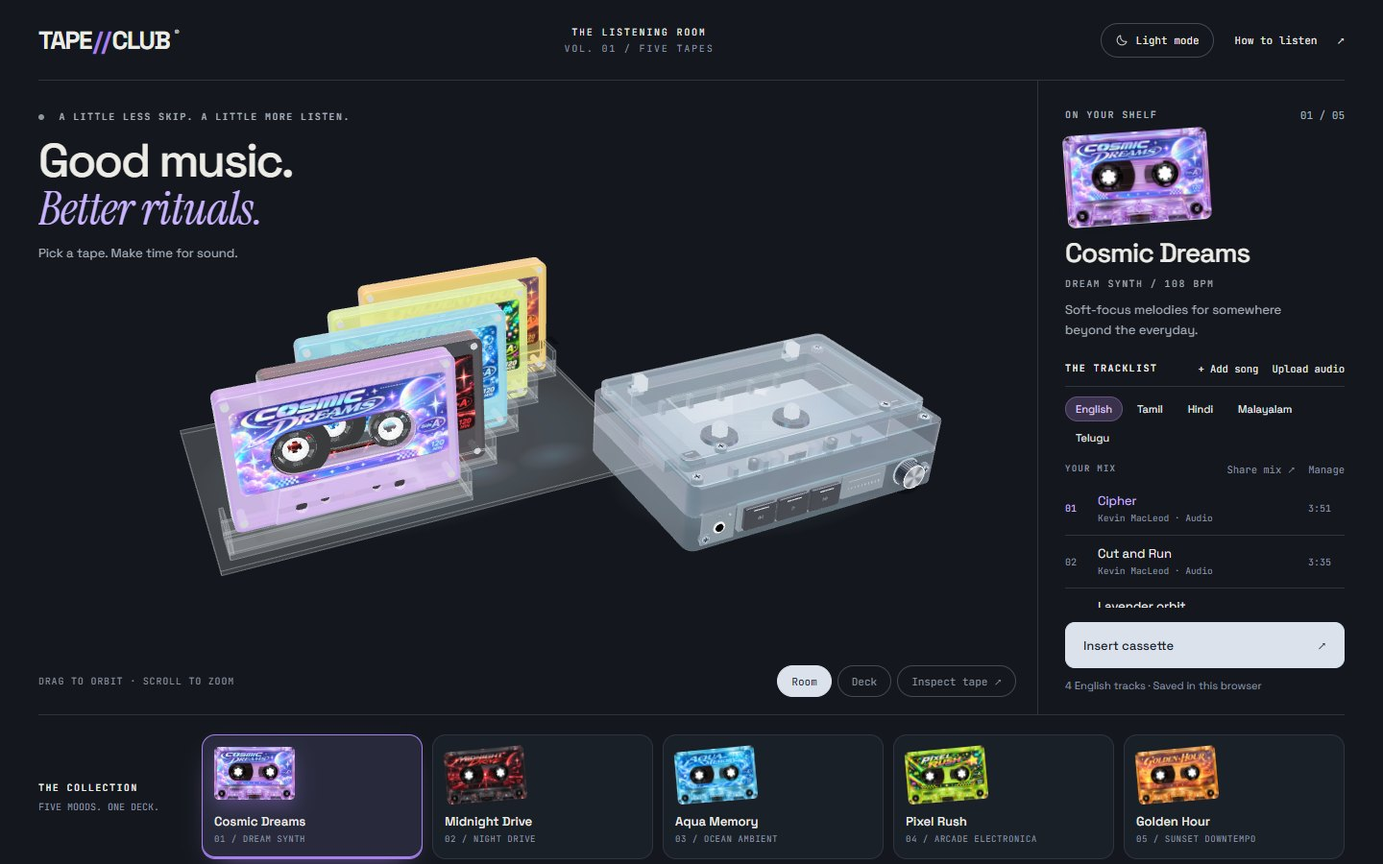
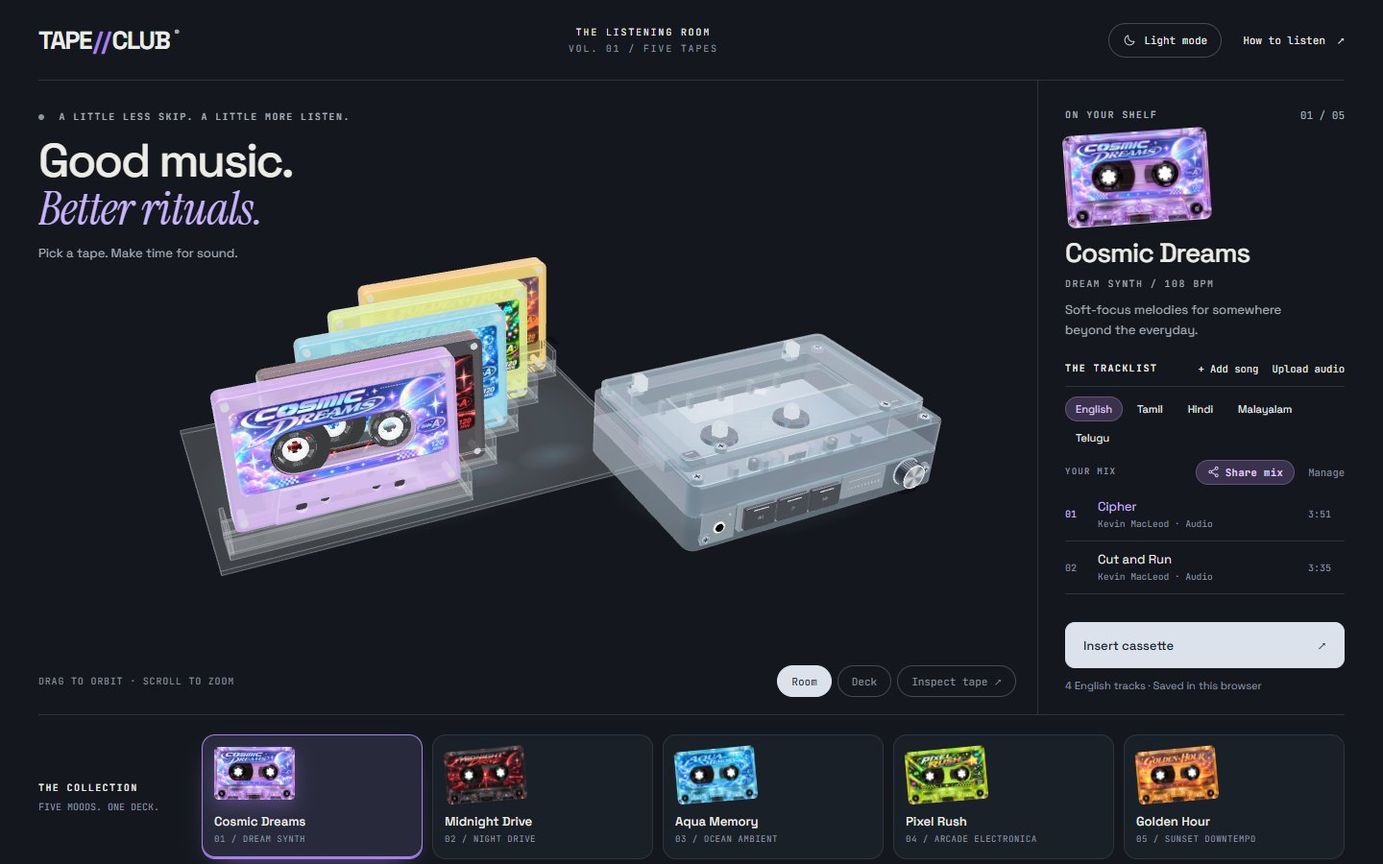
Polish mobile and loading: splash, mini player, sharper 3D, easier sharing
- Full-page branded loading splash with real progress; nothing
  half-loaded shows; artwork preload no longer stalls in background tabs
- Mobile: floating mini player (seek, prev, play/pause, next, eject),
  portrait-framed camera, sharper and more saturated 3D, icon-only mode
  switch and short Guide button, larger tap targets, pinch hint,
  auto-scroll to tape details and to the deck on insert, haptic taps
- Press feedback on all buttons, animated toasts and invite card
- Share mix shown as a pill on the tracklist and in the player bar
- Service worker cache v2; README updated; covers regenerated
- Tests: wait for audio level instead of sampling one instant

diff --git a/dist/index.html b/dist/index.html
@@ -26,26 +26,35 @@
   <script src="./vendor/gsap.min.js"></script>
 </head>
 <body>
-  <header class="masthead"><a class="wordmark" href="./" aria-label="TAPE CLUB home">TAPE<span>//</span>CLUB<sup>®</sup></a><div class="edition">THE LISTENING ROOM <span>VOL. 01 / FIVE TAPES</span></div><div class="header-actions"><button id="mode-toggle" class="mode-toggle" aria-label="Dark mode" aria-pressed="false"><svg viewBox="0 0 24 24" aria-hidden="true"><path d="M20.5 14A8.5 8.5 0 0 1 10 3.5 8.5 8.5 0 1 0 20.5 14Z"/></svg><span>Dark mode</span></button><button id="help-button" class="text-button">How to listen <span>↗</span></button></div></header>
+  <div class="loading" id="loading" role="status" aria-live="polite">
+    <div class="splash">
+      <div class="splash-tape" aria-hidden="true"><div class="splash-window"><i></i><i></i></div><span></span></div>
+      <div class="splash-mark">TAPE<span>//</span>CLUB</div>
+      <div class="loading-copy"><span class="loading-label" id="loading-label">Setting up the listening room</span><span class="loading-pct mono" id="loading-pct">0%</span></div>
+      <div class="loading-bar" role="progressbar" aria-label="Loading" aria-valuemin="0" aria-valuemax="100" aria-valuenow="0" id="loading-bar"><i></i></div>
+      <span class="splash-credit">BUILT BY SANJAI BUILDS</span>
+    </div>
+  </div><script>(()=>{let shown=0,target=8;const bar=document.getElementById('loading-bar'),pct=document.getElementById('loading-pct'),label=document.getElementById('loading-label');
+// While the 3D engine downloads, creep toward 35%; app.js reports real stages after that.
+const creep=setInterval(()=>{if(target<35)target+=(35-target)*.08;},200);
+const draw=()=>{if(!bar.isConnected)return;shown+=(target-shown)*.18;bar.style.setProperty('--p',shown.toFixed(1));pct.textContent=Math.round(shown)+'%';bar.setAttribute('aria-valuenow',Math.round(shown));requestAnimationFrame(draw);};requestAnimationFrame(draw);
+window.tapeLoad=(p,text)=>{clearInterval(creep);target=Math.max(target,p);if(text)label.textContent=text;};})();</script>
+  <header class="masthead"><a class="wordmark" href="./" aria-label="TAPE CLUB home">TAPE<span>//</span>CLUB<sup>®</sup></a><div class="edition">THE LISTENING ROOM <span>VOL. 01 / FIVE TAPES</span></div><div class="header-actions"><button id="mode-toggle" class="mode-toggle" aria-label="Dark mode" aria-pressed="false"><svg viewBox="0 0 24 24" aria-hidden="true"><path d="M20.5 14A8.5 8.5 0 0 1 10 3.5 8.5 8.5 0 1 0 20.5 14Z"/></svg><span>Dark mode</span></button><button id="help-button" class="text-button help-button"><span class="label-long">How to listen</span><span class="label-short">Guide</span><b aria-hidden="true">↗</b></button></div></header>
   <main>
     <section class="studio" aria-label="Cassette collection and player">
       <div class="stage" id="stage">
         <div class="stage-heading"><div class="eyebrow"><span class="live-dot"></span> A LITTLE LESS SKIP. A LITTLE MORE LISTEN.</div><h1>Good music.<br><em>Better rituals.</em></h1><p>Pick a tape. Make time for sound.</p></div>
         <div id="canvas-container" aria-label="3D cassette rack and graphite player. Select a tape using the collection buttons below."></div>
-        <div class="loading" id="loading" role="status"><div class="loading-copy"><span class="loading-label" id="loading-label">Setting up the listening room</span><span class="loading-pct mono" id="loading-pct">0%</span></div><div class="loading-bar" role="progressbar" aria-label="Loading" aria-valuemin="0" aria-valuemax="100" aria-valuenow="0" id="loading-bar"><i></i></div></div><script>(()=>{let shown=0,target=8;const bar=document.getElementById('loading-bar'),pct=document.getElementById('loading-pct'),label=document.getElementById('loading-label');
-// While the 3D engine downloads, creep toward 35%; app.js reports real stages after that.
-const creep=setInterval(()=>{if(target<35)target+=(35-target)*.08;},200);
-const draw=()=>{if(!bar.isConnected)return;shown+=(target-shown)*.18;bar.style.setProperty('--p',shown.toFixed(1));pct.textContent=Math.round(shown)+'%';bar.setAttribute('aria-valuenow',Math.round(shown));requestAnimationFrame(draw);};requestAnimationFrame(draw);
-window.tapeLoad=(p,text)=>{clearInterval(creep);target=Math.max(target,p);if(text)label.textContent=text;};})();</script>
+        
         <div class="stage-bottom"><span id="gesture-hint">DRAG TO ORBIT · SCROLL TO ZOOM</span><div class="view-controls"><button id="view-room" aria-label="Reset room view" class="active">Room</button><button id="view-deck">Deck</button><button id="inspect-button">Inspect tape ↗</button></div></div>
         <div id="error-banner" role="alert" hidden></div>
       </div>
       <aside class="tape-panel">
         <div class="panel-top"><span class="eyebrow">ON YOUR SHELF</span><span id="tape-number" class="mono">01 / 05</span></div>
-        <div class="selected-art" id="selected-art"><img id="selected-label" alt="Cosmic Dreams cassette label"><div class="mini-reels"><i></i><i></i></div><span>SIDE A</span></div>
+        <div class="selected-art" id="selected-art"><img id="selected-label" src="./assets/cosmic.png" alt="Cosmic Dreams cassette artwork" decoding="async"><div class="mini-reels"><i></i><i></i></div><span>SIDE A</span></div>
         <div class="tape-heading"><h2 id="selected-title">Cosmic Dreams</h2><span id="selected-genre" class="genre">DREAM SYNTH / 108 BPM</span></div>
         <p id="selected-description" class="description">Soft-focus melodies for somewhere beyond the everyday.</p>
-        <div class="playlist-heading"><span class="eyebrow">THE TRACKLIST</span><div class="playlist-actions"><button id="add-song" class="text-button">+ Add song</button><button id="upload-button" class="text-button" title="Upload local audio to this language group">Upload audio</button></div></div><div class="language-tabs" id="language-tabs" role="tablist" aria-label="Track language"></div><div class="playlist-toolbar"><span class="eyebrow">YOUR MIX</span><div class="playlist-actions"><button id="share-mix" class="text-button" title="Copy a link to this tape's tracklist">Share mix ↗</button><button id="manage-tracks" class="text-button" aria-pressed="false">Manage</button></div></div>
+        <div class="playlist-heading"><span class="eyebrow">THE TRACKLIST</span><div class="playlist-actions"><button id="add-song" class="text-button">+ Add song</button><button id="upload-button" class="text-button" title="Upload local audio to this language group">Upload audio</button></div></div><div class="language-tabs" id="language-tabs" role="tablist" aria-label="Track language"></div><div class="playlist-toolbar"><span class="eyebrow">YOUR MIX</span><div class="playlist-actions"><button id="share-mix" class="pill-button" title="Copy a link to this tape's tracklist"><svg viewBox="0 0 24 24" aria-hidden="true"><circle cx="18" cy="5" r="2.5"/><circle cx="6" cy="12" r="2.5"/><circle cx="18" cy="19" r="2.5"/><path d="M8.2 10.8l7.6-4.4M8.2 13.2l7.6 4.4"/></svg>Share mix</button><button id="manage-tracks" class="text-button" aria-pressed="false">Manage</button></div></div>
         <input id="audio-upload" type="file" accept="audio/*,.mp3,.wav,.m4a,.aac,.ogg,.flac,.opus" multiple hidden>
         <ol id="playlist" role="tabpanel" aria-label="Selected cassette playlist"></ol>
         <button class="primary" id="insert-button" disabled><span>Insert cassette</span><span>↗</span></button>
@@ -60,7 +69,7 @@ window.tapeLoad=(p,text)=>{clearInterval(creep);target=Math.max(target,p);if(tex
     <section class="transport" aria-label="Music playback controls">
       <div class="now-playing"><div class="status-line"><span class="live-dot" id="playing-dot"></span><span id="status" role="status" aria-live="polite">Choose your soundtrack</span></div><strong id="track-title">The room is yours.</strong><span id="track-artist">Insert a cassette to begin</span></div>
       <div class="playback"><div class="transport-buttons"><button id="previous" title="Previous track" aria-label="Previous track"><svg viewBox="0 0 24 24" aria-hidden="true"><path d="M6 5h2v14H6zM20 5v14L9 12z"/></svg></button><button id="rewind" title="Rewind tape" aria-label="Rewind tape"><svg viewBox="0 0 24 24" aria-hidden="true"><path d="M11.5 6v12L3 12zM21 6v12l-8.5-6z"/></svg></button><button id="play" class="play" title="Play or pause" aria-label="Play" disabled><svg class="icon-play" viewBox="0 0 24 24" aria-hidden="true"><path d="M8 5.5v13l11-6.5z"/></svg><svg class="icon-pause" viewBox="0 0 24 24" aria-hidden="true"><path d="M7 5h3.5v14H7zM13.5 5H17v14h-3.5z"/></svg></button><button id="forward" title="Fast forward tape" aria-label="Fast forward tape"><svg viewBox="0 0 24 24" aria-hidden="true"><path d="M12.5 6v12L21 12zM3 6v12l8.5-6z"/></svg></button><button id="next" title="Next track" aria-label="Next track"><svg viewBox="0 0 24 24" aria-hidden="true"><path d="M16 5h2v14h-2zM4 5v14l11-7z"/></svg></button></div><div class="seek-row"><span id="elapsed" class="mono">0:00</span><input id="seek" type="range" min="0" max="1000" value="0" aria-label="Track position" disabled><span id="duration" class="mono">0:00</span></div></div>
-      <div class="output"><canvas id="visualizer" width="220" height="34" aria-label="Audio frequency visualizer"></canvas><div class="output-controls"><label for="volume">VOL</label><input id="volume" type="range" min="0" max="100" value="70" aria-label="Volume"><span id="volume-value" class="mono">70</span><button id="eject" disabled>Eject ↑</button><button id="lid" title="Open or close player lid">Lid ↑</button></div></div>
+      <div class="output"><canvas id="visualizer" width="220" height="34" aria-label="Audio frequency visualizer"></canvas><div class="output-controls"><label for="volume">VOL</label><input id="volume" type="range" min="0" max="100" value="70" aria-label="Volume"><span id="volume-value" class="mono">70</span><button id="share-player" class="icon-button mini-hide" title="Share this tape's mix" aria-label="Share this tape's mix"><svg viewBox="0 0 24 24" aria-hidden="true"><circle cx="18" cy="5" r="2.5"/><circle cx="6" cy="12" r="2.5"/><circle cx="18" cy="19" r="2.5"/><path d="M8.2 10.8l7.6-4.4M8.2 13.2l7.6 4.4"/></svg>Share</button><button id="eject" aria-label="Eject cassette" disabled><span class="mini-hide">Eject ↑</span><svg class="mini-only" viewBox="0 0 24 24" aria-hidden="true" width="18" height="18" fill="currentColor"><path d="M12 5l7 8H5zM5 16h14v3H5z"/></svg></button><button id="lid" title="Open or close player lid">Lid ↑</button></div></div>
     </section>
     <section class="music-library" aria-labelledby="library-title">
       <div class="library-heading"><div><span class="eyebrow">THE RECORD STORE</span><h2 id="library-title">Find your next <em>rotation.</em></h2></div><p>Full-length picks across five genres.<br>Add a sampler to your selected tape and language.</p></div>

diff --git a/dist/js/app.js b/dist/js/app.js
@@ -23,9 +23,12 @@ const playlistStore=new PlaylistStore();await playlistStore.restoreFiles();
 const audio=new AudioEngine(playlistStore);const finishPointer=new THREE.Vector2();
 const finishState={pointer:finishPointer,selected:false,hovered:false,inserted:false,playing:false,inspecting:false,reducedMotion:false,activity:0};
 const container=$('canvas-container'),stage=$('stage');
+const coarsePointer=matchMedia('(pointer: coarse)').matches,reducedMotionPref=()=>matchMedia('(prefers-reduced-motion: reduce)').matches;
+const buzz=(ms=8)=>{if(coarsePointer)try{navigator.vibrate?.(ms)}catch{}};
+if(coarsePointer)$('gesture-hint').textContent='DRAG TO ORBIT · PINCH TO ZOOM';
 let renderer;
 try{renderer=new THREE.WebGLRenderer({antialias:true,alpha:true,powerPreference:'high-performance'});}catch(e){$('loading').hidden=true;$('error-banner').hidden=false;$('error-banner').textContent='This browser cannot start the 3D room. Enable WebGL or open the site in a current Chrome, Edge, Safari, or Firefox browser.';throw e;}
-renderer.setPixelRatio(Math.min(devicePixelRatio,innerWidth<760?1.3:1.6));renderer.toneMapping=THREE.ACESFilmicToneMapping;renderer.toneMappingExposure=.95;
+const smallScreen=innerWidth<760;renderer.setPixelRatio(Math.min(devicePixelRatio,smallScreen?2:1.6));renderer.toneMapping=THREE.ACESFilmicToneMapping;renderer.toneMappingExposure=smallScreen?1.05:.95;
 renderer.outputColorSpace=THREE.SRGBColorSpace;renderer.shadowMap.enabled=true;renderer.shadowMap.type=THREE.PCFSoftShadowMap;renderer.setClearColor('#f2f3f0',1);container.appendChild(renderer.domElement);
 const scene=new THREE.Scene();const camera=new THREE.PerspectiveCamera(34,1,.3,200);
 const controls=new OrbitControls(camera,renderer.domElement);controls.enableDamping=true;controls.dampingFactor=.08;controls.minDistance=16;controls.maxDistance=100;controls.maxPolarAngle=Math.PI*.47;controls.enablePan=false;
@@ -63,11 +66,14 @@ function cameraMove(pos,target,duration=.65){if(matchMedia('(prefers-reduced-mot
 function fitRoom(animate=true){
   // Offset the objects toward the lower half so the introductory type has air.
   const mobile=container.clientWidth<600;
-  const target=new THREE.Vector3(-3,3,-.5);const dist=mobile?87:50;
-  const pos=target.clone().add(new THREE.Vector3(-.36,.49,.8).normalize().multiplyScalar(dist));roomPose={pos,target};
+  // Portrait phones look from further left so the rack and deck overlap in depth and fill the width.
+  const aspect=container.clientWidth/Math.max(1,container.clientHeight);
+  const target=mobile?new THREE.Vector3(-2.4,5.5,-.5):new THREE.Vector3(-3,3,-.5);
+  const dist=mobile?THREE.MathUtils.clamp(52/aspect,55,95):50;
+  const pos=target.clone().add((mobile?new THREE.Vector3(-.48,.5,.72):new THREE.Vector3(-.36,.49,.8)).normalize().multiplyScalar(dist));roomPose={pos,target};
   if(animate)cameraMove(pos,target);else{camera.position.copy(pos);controls.target.copy(target);controls.update();}
 }
-function changeView(inspect){inspectionView=inspect;controls.enabled=!inspect;stage.classList.toggle('inspecting',inspect);$('gesture-hint').textContent=inspect?'DRAG TO TURN THE TAPE · ESC TO RETURN':'DRAG TO ORBIT · SCROLL TO ZOOM';if(inspect)cameraMove(new THREE.Vector3(-2,10,38),new THREE.Vector3(-2,8,15));else{deckView=false;fitRoom();}renderUI();}
+function changeView(inspect){inspectionView=inspect;controls.enabled=!inspect;stage.classList.toggle('inspecting',inspect);$('gesture-hint').textContent=inspect?'DRAG TO TURN THE TAPE · ESC TO RETURN':(coarsePointer?'DRAG TO ORBIT · PINCH TO ZOOM':'DRAG TO ORBIT · SCROLL TO ZOOM');if(inspect)cameraMove(new THREE.Vector3(-2,10,38),new THREE.Vector3(-2,8,15));else{deckView=false;fitRoom();}renderUI();}
 function showError(message){$('error-banner').textContent=message;$('error-banner').hidden=false;clearTimeout(showError.timer);showError.timer=setTimeout(()=>$('error-banner').hidden=true,10000);}
 const transport=new Transport({scene,player,tapes,slots,audio,onChange:()=>renderUI(),onError:showError,resetView:changeView});
 const playlistUI=createPlaylistUI({store:playlistStore,audio,transport,displayName,onError:showError});
@@ -87,7 +93,7 @@ function updateMediaSession(state){
 function updatePositionState(){const d=audio.media.duration,t=audio.media.currentTime;if(!session?.setPositionState||!transport.loaded||!(d>0)||!Number.isFinite(d))return;try{session.setPositionState({duration:d,position:Math.min(Math.max(0,t||0),d),playbackRate:1});}catch{}}
 let renderedPlaylist='',renderedSelection='';const reducedMotion=matchMedia('(prefers-reduced-motion: reduce)').matches;function animateSelection(){if(reducedMotion)return;gsap.fromTo(['#selected-art','#selected-title','#selected-genre','#selected-description'],{y:9,opacity:0},{y:0,opacity:1,duration:.5,stagger:.055,ease:'power3.out',overwrite:true});}
 const statusNames={empty:'Choose your soundtrack',inserting:'Inserting cassette',ready:'Ready when you are',starting:'Starting audio',playing:'Now playing',paused:'Paused',rewind:'Rewinding',forward:'Fast forwarding',ejecting:'Returning to the shelf',lid:'Moving the lid',track:'Loading track'};
-keys.forEach((id,i)=>{const b=document.createElement('button');b.type='button';b.className='cassette-card';b.dataset.tape=id;b.style.setProperty('--accent',CASSETTE_THEMES[id].shellColor);b.innerHTML=`<span class="tape-swatch" aria-hidden="true"><img src="./assets/${id}.png" alt="" draggable="false"></span><span><span class="card-name">${displayName(id)}</span><span class="card-meta">${String(i+1).padStart(2,'0')} / ${descriptions[id][0].toUpperCase()}</span></span>`;b.onclick=()=>transport.select(id);$('cassette-list').appendChild(b);});
+keys.forEach((id,i)=>{const b=document.createElement('button');b.type='button';b.className='cassette-card';b.dataset.tape=id;b.style.setProperty('--accent',CASSETTE_THEMES[id].shellColor);b.innerHTML=`<span class="tape-swatch" aria-hidden="true"><img src="./assets/${id}.png" alt="" draggable="false"></span><span><span class="card-name">${displayName(id)}</span><span class="card-meta">${String(i+1).padStart(2,'0')} / ${descriptions[id][0].toUpperCase()}</span></span>`;b.onclick=async()=>{buzz();const changed=transport.selected!==id;await transport.select(id);if(changed&&smallScreen){const top=document.querySelector('.tape-panel').getBoundingClientRect().top+scrollY-8;scrollTo({top,behavior:reducedMotionPref()?'auto':'smooth'});}};$('cassette-list').appendChild(b);});
 document.querySelectorAll('.cassette-card').forEach(card=>{
   card.addEventListener('pointerenter',()=>transport.hover(card.dataset.tape));
   card.addEventListener('pointermove',e=>{const r=card.getBoundingClientRect(),x=(e.clientX-r.left)/r.width*2-1,y=(e.clientY-r.top)/r.height*2-1;finishPointer.set(x,-y);card.style.setProperty('--tilt-x',`${-y*5}deg`);card.style.setProperty('--tilt-y',`${x*7}deg`);});
@@ -119,13 +125,14 @@ ALBUMS.forEach(album=>{
   });
   $('album-grid').appendChild(card);
 });
-$('insert-button').onclick=()=>transport.insert();$('eject').onclick=()=>transport.eject();$('play').onclick=()=>transport.state==='playing'?transport.pause():transport.play();$('rewind').onclick=()=>transport.wind('rewind');$('forward').onclick=()=>transport.wind('forward');$('previous').onclick=()=>transport.track(-1);$('next').onclick=()=>transport.track(1);$('lid').onclick=()=>transport.lid(!transport.lidOpen);$('inspect-button').onclick=()=>transport.inspect();
+$('insert-button').onclick=()=>{buzz(12);if(smallScreen)stage.scrollIntoView({behavior:reducedMotionPref()?'auto':'smooth',block:'start'});transport.insert();};$('eject').onclick=()=>{buzz(12);transport.eject();};$('play').onclick=()=>{buzz();transport.state==='playing'?transport.pause():transport.play();};$('rewind').onclick=()=>transport.wind('rewind');$('forward').onclick=()=>transport.wind('forward');$('previous').onclick=()=>transport.track(-1);$('next').onclick=()=>transport.track(1);$('lid').onclick=()=>transport.lid(!transport.lidOpen);$('inspect-button').onclick=()=>transport.inspect();
 $('seek').oninput=e=>transport.seek(Number(e.target.value)/1000);$('volume').oninput=e=>transport.volume(Number(e.target.value)/100);
 $('view-room').onclick=async()=>{if(transport.busy)return;if(transport.inspecting)await transport.inspect(false);deckView=false;fitRoom();$('view-room').classList.add('active');$('view-deck').classList.remove('active');};
 $('view-deck').onclick=async()=>{if(transport.busy)return;if(transport.inspecting)await transport.inspect(false);deckView=true;cameraMove(new THREE.Vector3(1,17,24),new THREE.Vector3(6,2,5));$('view-deck').classList.add('active');$('view-room').classList.remove('active');};
 function toast(message){const t=$('toast');t.textContent=message;t.hidden=false;clearTimeout(toast.timer);toast.timer=setTimeout(()=>t.hidden=true,4500);}
 const languageName=id=>languageTabsConfig.languages.find(l=>l.id===id)?.label||id;
-$('share-mix').onclick=async()=>{
+$('share-player').onclick=()=>$('share-mix').click();
+$('share-mix').onclick=async()=>{buzz();
   const tape=transport.selected,language=playlistStore.language(tape),{url,count,skipped}=createMixLink(playlistStore,tape,language);
   if(!count){toast('Nothing to share yet: uploaded files stay on your device. Add a YouTube song or a record-store sampler first.');return;}
   const note=skipped?` (${skipped} uploaded file${skipped>1?'s':''} left out)`:'';

diff --git a/dist/style.css b/dist/style.css
@@ -88,6 +88,7 @@ button:disabled{opacity:.35;cursor:not-allowed}
 .text-button{font-size:11px;padding:8px 0;transition:color .2s}
 .text-button:hover:enabled{color:var(--accent-text)}
 .text-button span{margin-left:14px}
+.help-button span{margin-left:0}.help-button b{font-weight:400;margin-left:12px}.label-short{display:none}
 .source-note{font-size:11px;color:var(--subtle);line-height:1.6;margin-top:10px}
 .live-dot{display:inline-block;width:6px;height:6px;border-radius:50%;background:var(--subtle);margin-right:8px;vertical-align:middle}
 
@@ -121,12 +122,23 @@ h1 em{font-family:var(--font-serif);font-weight:400;letter-spacing:-.01em;color:
 #canvas-container{position:absolute;inset:0;touch-action:none;cursor:grab}
 #canvas-container:active{cursor:grabbing}
 #canvas-container canvas{display:block;width:100%;height:100%}
-.loading{position:absolute;inset:0;display:flex;flex-direction:column;align-items:center;justify-content:center;gap:14px;background:var(--bg);z-index:3;font-size:13px;color:var(--muted);transition:opacity .45s}
-.loading.done{opacity:0;pointer-events:none}
-.loading-copy{display:flex;justify-content:space-between;gap:24px;width:min(280px,70%)}
+/* Full-page splash: covers everything until the room, art and fonts are ready. */
+.loading{position:fixed;inset:0;z-index:100;display:grid;place-items:center;background:radial-gradient(120% 80% at 50% 38%,color-mix(in srgb,var(--selection-accent) 16%,var(--bg)) 0%,var(--bg) 62%);color:var(--muted);transition:opacity .5s ease,visibility .5s}
+.loading.done{opacity:0;visibility:hidden;pointer-events:none}
+.splash{display:flex;flex-direction:column;align-items:center;gap:16px;width:min(300px,78vw);text-align:center}
+.splash-tape{position:relative;width:132px;height:86px;border-radius:12px;background:linear-gradient(135deg,#b48cf2,#8a63d8 55%,#6f4fc0);box-shadow:0 18px 40px -16px #6f4fc0,inset 0 0 0 2px #ffffff30;animation:splash-float 2.6s ease-in-out infinite}
+.splash-tape span{position:absolute;left:28%;right:28%;bottom:0;height:16px;border-radius:6px 6px 0 0;background:#00000026}
+.splash-window{position:absolute;left:14px;right:14px;top:14px;height:38px;border-radius:8px;background:#f3ecff;display:flex;align-items:center;justify-content:space-around}
+.splash-window i{width:24px;height:24px;border-radius:50%;border:6px solid #22262a;background:repeating-conic-gradient(#22262a 0 20deg,#f3ecff 20deg 60deg);animation:spin 1.2s linear infinite}
+.splash-mark{margin-top:6px;font-size:24px;font-weight:700;letter-spacing:-.05em;color:var(--text)}
+.splash-mark span{color:var(--selection-accent)}
+.loading-copy{display:flex;justify-content:space-between;gap:24px;width:100%;font-size:12px}
 .loading-pct{color:var(--text)}
-.loading-bar{--p:0;position:relative;width:min(280px,70%);height:3px;border-radius:3px;background:var(--track);overflow:hidden}
+.loading-bar{--p:0;position:relative;width:100%;height:4px;border-radius:4px;background:var(--track);overflow:hidden}
 .loading-bar i{position:absolute;inset:0;transform-origin:left;transform:scaleX(calc(var(--p) / 100));background:linear-gradient(90deg,#a780ec,#7fdcf0,#f4cc43)}
+.splash-credit{margin-top:8px;font:10px var(--font-mono);letter-spacing:.16em;color:var(--subtle)}
+@keyframes splash-float{0%,100%{transform:translateY(0) rotate(-3deg)}50%{transform:translateY(-6px) rotate(-1deg)}}
+@keyframes spin{to{transform:rotate(360deg)}}
 .stage-bottom{position:absolute;bottom:18px;left:0;right:22px;z-index:2;display:flex;justify-content:space-between;align-items:center;gap:10px;font-size:10px;letter-spacing:.08em;color:var(--subtle)}
 .view-controls{display:flex;gap:6px}
 .view-controls button{border:1px solid var(--line-strong);border-radius:999px;padding:8px 14px;font-size:11px;white-space:nowrap;background:color-mix(in srgb,var(--bg) 72%,transparent);backdrop-filter:blur(10px);transition:background .25s,color .25s,transform .25s var(--ease)}
@@ -426,3 +438,69 @@ kbd{font:11px var(--font-mono);padding:2px 6px;border:1px solid var(--line-stron
   *,*::before,*::after{scroll-behavior:auto!important;animation:none!important;transition:none!important}
   .primary:hover:enabled,.cassette-card:hover:enabled,.cassette-card:hover .tape-swatch,.transport-buttons button:hover:enabled,.view-controls button:hover:enabled,#playlist .track-play:hover:enabled,.album-card:hover .album-cover{transform:none}
 }
+
+/* 12. Touch feel, motion and mobile polish ------------------------------ */
+html{-webkit-text-size-adjust:100%}
+button{touch-action:manipulation;-webkit-user-select:none;user-select:none}
+:is(.primary,.view-controls button,.cassette-card,.transport-buttons button,.album-add,.language-tabs button,.mode-toggle,.pill-button,.text-button):active:enabled{transform:scale(.96);transition-duration:.08s}
+.selected-art img,.tape-swatch img{transition:opacity .35s}
+.pill-button{display:inline-flex;align-items:center;gap:6px;padding:5px 11px;border:1px solid var(--tab-active-line);border-radius:999px;background:var(--tab-active-bg);color:var(--tab-active-text);font:600 10.5px var(--font-mono);letter-spacing:.04em;transition:background .2s,transform .2s var(--ease)}
+.pill-button:hover:enabled{transform:translateY(-1px)}
+.pill-button svg,.icon-button svg{width:13px;height:13px;fill:none;stroke:currentColor;stroke-width:1.8;stroke-linecap:round;stroke-linejoin:round}
+.icon-button{display:inline-flex;align-items:center;gap:6px}
+.toast,.mix-invite{animation:rise .35s var(--ease)}
+@keyframes rise{from{opacity:0;transform:translate(var(--tx,0),12px)}to{opacity:1;transform:translate(var(--tx,0),0)}}
+.toast{--tx:-50%}
+.mini-only{display:none}
+
+@media(max-width:760px){
+  /* Header: icon-only mode switch and a short "Guide" label. */
+  .mode-toggle span{position:absolute;width:1px;height:1px;overflow:hidden;clip:rect(0 0 0 0)}
+  .mode-toggle{width:40px;height:40px;padding:0;justify-content:center}
+  .mode-toggle svg{width:17px;height:17px}
+  .label-long{display:none}.label-short{display:inline}
+  .help-button{padding:10px 14px;border:1px solid var(--line-strong);border-radius:999px;font-size:12px}
+  .help-button b{margin-left:6px}
+
+  /* Stage: bigger, crisper, more colourful 3D room. */
+  .stage{height:min(560px,72svh);background:radial-gradient(110% 70% at 50% 62%,color-mix(in srgb,var(--selection-accent) 14%,transparent),transparent 70%)}
+  #canvas-container canvas{filter:saturate(1.18) contrast(1.04)}
+  h1{font-size:40px}
+  .stage-heading p{font-size:14px}
+  .stage-bottom{bottom:14px}
+  .view-controls{gap:8px}
+  .view-controls button{padding:10px 15px;font-size:11px}
+
+  /* Tape panel: clearer hierarchy and larger tap targets. */
+  .tape-heading h2{font-size:28px}
+  .description{font-size:13.5px}
+  .playlist-actions .text-button,.playlist-toolbar .text-button{font-size:12px;padding:8px 0}
+  .language-tabs button{font-size:12px;padding:9px 14px}
+  #playlist .track-play{font-size:14px}
+  .primary{min-height:54px;font-size:15px;border-radius:14px}
+  .cassette-card{border-radius:16px}
+
+  /* Fixed mini player: always within thumb reach. */
+  body{padding-bottom:calc(132px + env(safe-area-inset-bottom))}
+  .transport{position:fixed;z-index:30;left:10px;right:10px;bottom:calc(10px + env(safe-area-inset-bottom));display:grid;grid-template-columns:minmax(0,1fr) auto auto;grid-template-areas:"seek seek seek" "now ctrl extra";align-items:center;gap:8px 10px;min-height:0;padding:10px 12px 12px;border-radius:20px;background:color-mix(in srgb,var(--surface) 82%,transparent);backdrop-filter:blur(18px) saturate(1.4);-webkit-backdrop-filter:blur(18px) saturate(1.4);border-color:color-mix(in srgb,var(--selection-accent) 35%,var(--line-strong));box-shadow:0 18px 40px -18px #000c,0 0 0 1px #ffffff08 inset}
+  .playback,.output{display:contents}
+  .now-playing{grid-area:now;gap:2px;min-width:0}
+  .status-line{font-size:9px;white-space:nowrap;overflow:hidden;text-overflow:ellipsis}
+  .now-playing strong{font-size:15px}
+  .now-playing>span{font-size:11.5px}
+  .seek-row{grid-area:seek;margin:0;gap:8px}
+  .seek-row .mono{font-size:10px;min-width:28px}
+  .transport-buttons{grid-area:ctrl;gap:2px}
+  .transport-buttons button{width:40px;height:40px}
+  #rewind,#forward{display:none}
+  .transport-buttons .play{width:48px;height:48px}
+  #visualizer,.output-controls label,.output-controls #volume,.output-controls #volume-value,.output-controls #lid{display:none}
+  .output-controls{grid-area:extra;gap:0}
+  .output-controls button{border-left:0;padding:0;width:40px;height:40px;display:inline-flex;align-items:center;justify-content:center;border-radius:50%}
+  .output-controls button:active:enabled{background:var(--surface-hover)}
+  .mini-only{display:inline-flex}
+  .mini-hide,.output-controls .mini-hide{display:none}
+  .toast{bottom:calc(150px + env(safe-area-inset-bottom));border-radius:16px}
+  .mix-invite{left:10px;right:10px;width:auto;bottom:calc(150px + env(safe-area-inset-bottom))}
+}
+@media(prefers-reduced-motion:reduce){.splash-tape,.splash-window i{animation:none}}

diff --git a/dist/js/cassette.js b/dist/js/cassette.js
@@ -5,7 +5,10 @@ import { CASSETTE_THEMES } from './themes.js';
     export async function preloadReferenceArtwork() {
       await Promise.all(Object.keys(CASSETTE_THEMES).map(async id=>{
         const image=new Image();image.src=new URL(`../assets/${id}.png`,import.meta.url).href;
-        try{await image.decode();referenceImages.set(id,image);}catch{console.warn(`Using procedural artwork for ${id}`);}
+        // decode() can stall in background tabs; onload always fires, and decode is only a head start.
+        try{await new Promise((resolve,reject)=>{if(image.complete&&image.naturalWidth)resolve();else{image.onload=resolve;image.onerror=reject;}});
+          await Promise.race([image.decode().catch(()=>{}),new Promise(r=>setTimeout(r,1200))]);referenceImages.set(id,image);}
+        catch{console.warn(`Using procedural artwork for ${id}`);}
       }));
     }
 

diff --git a/dist/sw.js b/dist/sw.js
@@ -1,6 +1,6 @@
 // Offline support: the 3D room, fonts, art and synth studies work without a connection.
 // Bundled MP3s stream from the network. Bump VERSION when you change the file list.
-const VERSION='tape-club-v1';
+const VERSION='tape-club-v2';
 const SHELL=[
   './',
   './assets/aqua.png',

diff --git a/README.md b/README.md
@@ -51,6 +51,9 @@ Drag an empty part of the room to orbit; scroll/pinch to zoom. The deck’s real
 - **Link previews:** Open Graph and Twitter tags with `og-image.jpg` (1200×630). Set your real address in `index.html` (see HOSTING.md).
 - **Faster first load:** minified Three.js, preloaded fonts and modules, and a real progress bar.
 - **First visit:** the How to listen guide opens once and the Insert button pulses until the first insert.
+- **Loading splash:** a full-screen branded splash with a spinning cassette and real progress covers the page until the 3D room, artwork and fonts are ready, so nothing half-loaded is ever visible.
+- **Mobile:** a floating mini player stays within thumb reach (seek, previous, play/pause, next, eject); the 3D camera is framed for portrait screens and rendered sharper and more saturated; the header uses an icon-only mode switch and a short **Guide** button; tapping a tape scrolls to its details, and Insert scrolls up so you can watch the deck; light haptic taps on supported phones.
+- **Everywhere:** press feedback on every button, smoother toasts and cards, and a **Share** button in the player bar as well as on the tracklist.
 
 ## Your music
 
